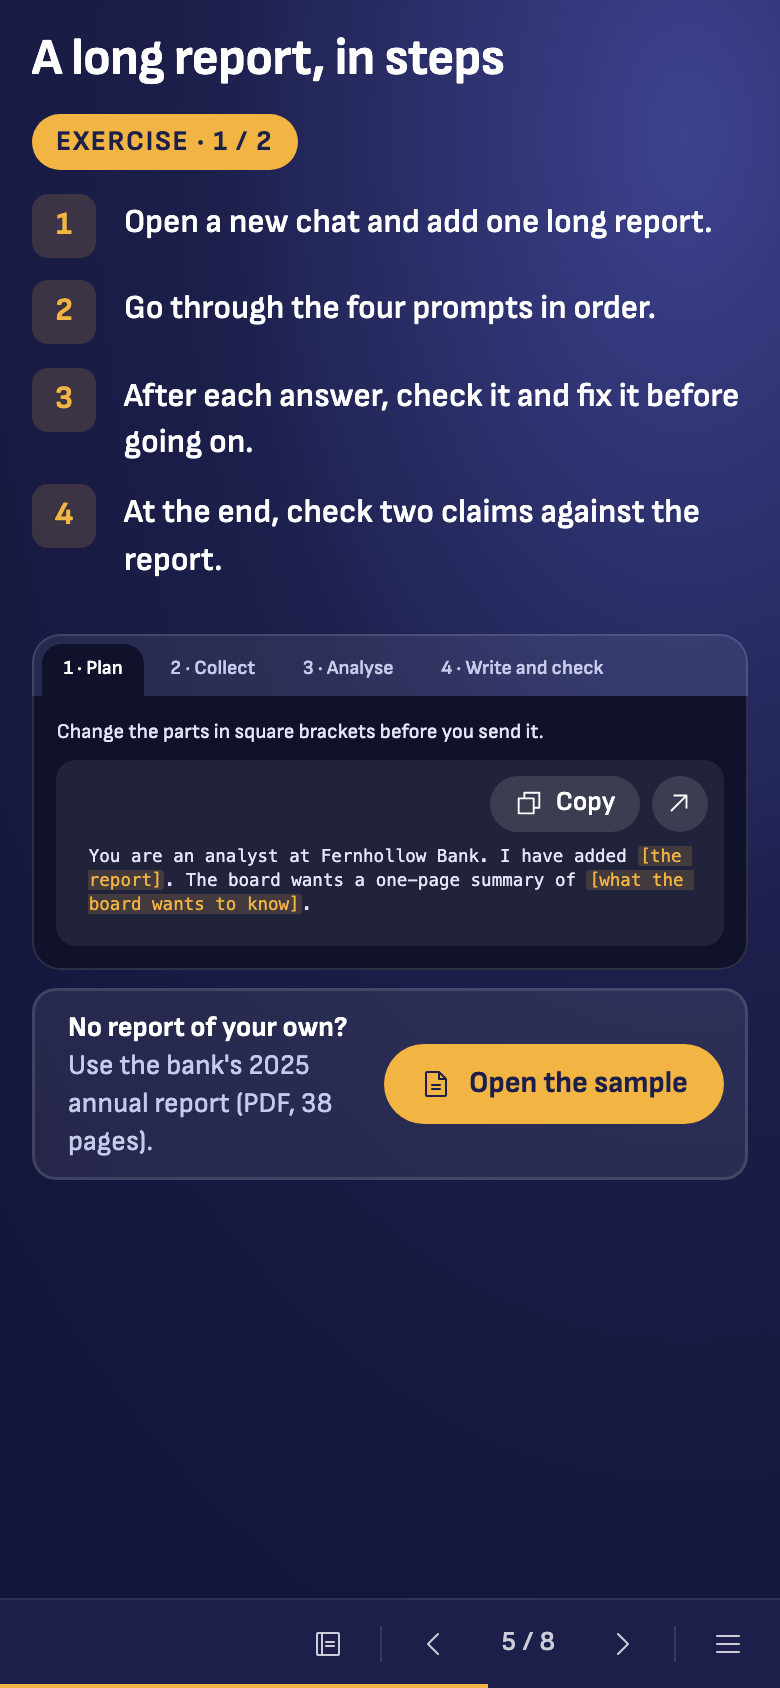
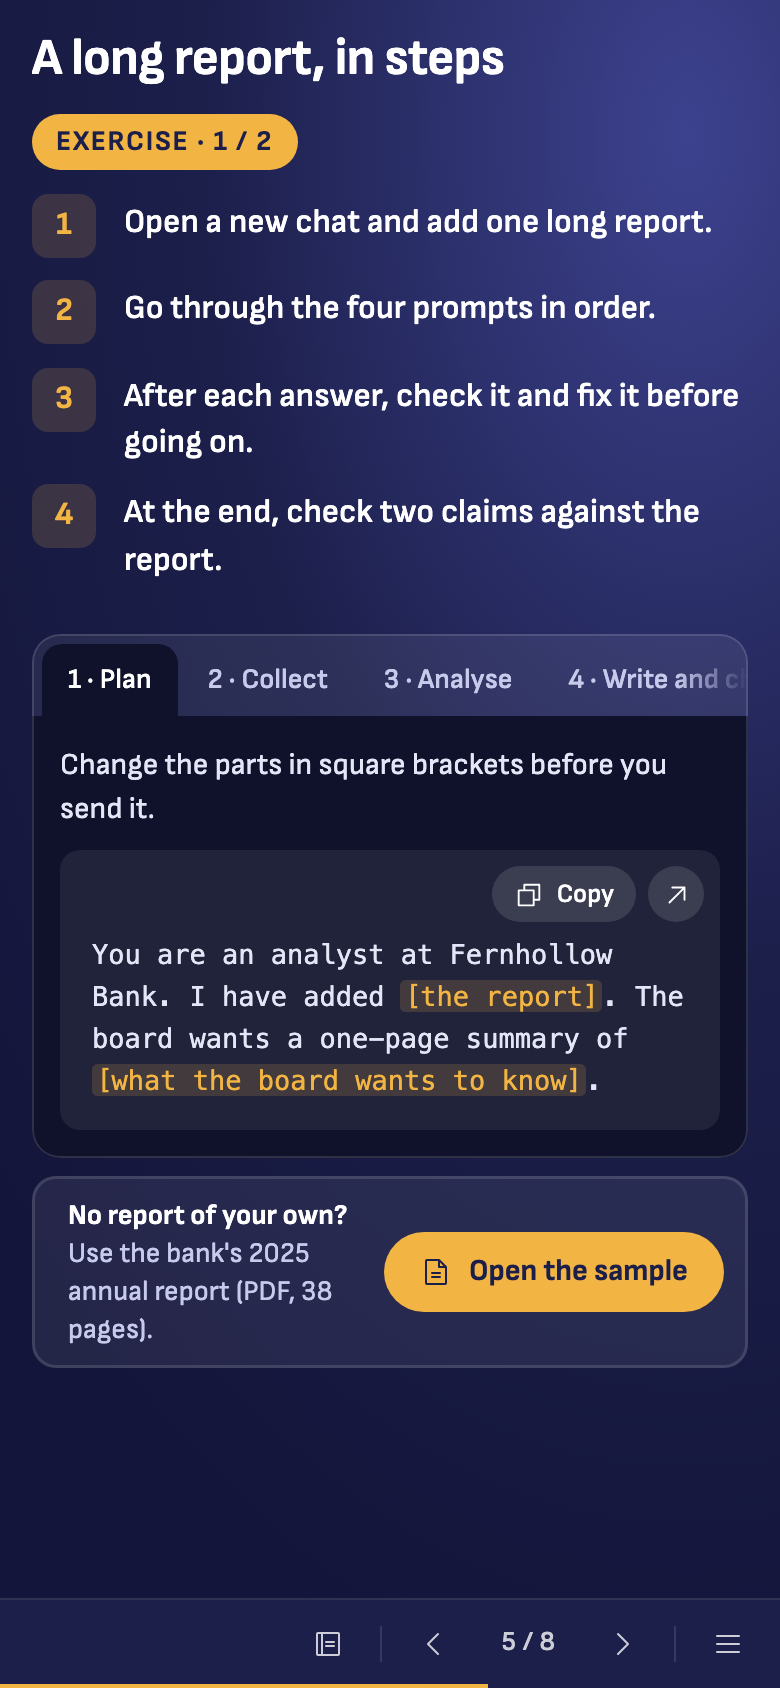
Decks page: one column at reading size, the Tabs block too (the Experience lead on #807)
Tab names 14 px on a 36 px tab, pane words 15 px at 1.5, code 13.5/21, Copy 28 px at 13 px, the arrow's circle 28 px;
the one-column ticks' rules no longer name a slide inside a slide. Shots 2 and 3 retaken.

Changed region(s): [[0.0308, 0.3697, 0.9846, 0.8009], [0.9538, 0.7085, 0.9846, 0.8009], [0.0308, 0.4005, 0.0615, 0.4313]]

diff --git a/extensions/ritemark/src/decks/page/pageHtml.ts b/extensions/ritemark/src/decks/page/pageHtml.ts
@@ -637,8 +637,17 @@ svg { flex: none; }
   .layer.flow .deck-sl.is-blocks table { display: block; overflow-x: auto; max-width: 100%; }
   .layer.flow .deck-sl.is-blocks .blk-pic { max-height: 60vh; }
   .layer.flow .deck-sl.is-blocks .blk-steps ol > li { padding-left: 46px; min-height: 32px; margin-bottom: .7em; }
-  .layer.flow .layer .deck-sl.is-blocks .blk-steps .tick { width: 32px; height: 32px; top: -3px; border-radius: 8px; font-size: 16px; }
-  .layer.flow .layer .deck-sl.is-blocks .blk-steps .tick svg { width: 17px; height: 17px; }
+  .layer.flow .deck-sl.is-blocks .blk-steps .tick { width: 32px; height: 32px; top: -3px; border-radius: 8px; font-size: 16px; }
+  .layer.flow .deck-sl.is-blocks .blk-steps .tick svg { width: 17px; height: 17px; }
+  /* Every block at reading size, the Tabs block too (the Experience lead on #807; workbook.html's one column): tab names
+     14 px on a 36 px tab with 13 px sides, pane words 15 px at 1.5, code 13.5 px on a 21 px line, Copy 28 px at 13 px, the
+     arrow's circle 28 px. The band scrolls sideways when the tabs don't fit, as on a slide. */
+  .layer.flow .deck-sl.is-blocks .blk-tabs > .blk-tabbar > .blk-tab { height: 36px !important; padding: 0 13px !important; font-size: 14px !important; line-height: 36px; }
+  .layer.flow .deck-sl.is-blocks .blk-tabpane { padding: 14px; font-size: 15px; line-height: 1.5; }
+  .layer.flow .deck-sl.is-blocks pre.cb { font-size: 13.5px; line-height: 21px; }
+  .layer.flow .deck-sl.is-blocks .cb-copy { height: 28px; padding: 0 11px; font-size: 13px; }
+  .layer.flow .deck-sl.is-blocks .cb-open { width: 28px; height: 28px; padding: 0; }
+  .layer.flow .deck-sl.is-blocks .cb-tools svg { width: 15px; height: 15px; }
   .side { position: relative; inset: auto; z-index: 1; width: auto; padding: 4px 16px calc(var(--line-h) + 16px); background: none; box-shadow: none; overflow: visible; }
   .side .sclose { display: none; }
   .line { background: var(--lbar); -webkit-backdrop-filter: blur(8px); backdrop-filter: blur(8px); box-shadow: 0 -1px 0 var(--lsep); padding-left: 16px; }
@@ -700,7 +709,7 @@ export const PRINT_CSS = `
   .layer .deck-sl.is-blocks.pic-right .photo { right: 0; width: 384px; }
   .layer .deck-sl.is-blocks.pic-behind .photo { left: 0; right: 0; }
   .layer .deck-sl.is-blocks.pic-behind .veil { inset: 0; }
-  .layer .layer .deck-sl.is-blocks .blk-steps .tick { box-shadow: none; }
+  .layer .deck-sl.is-blocks .blk-steps .tick { box-shadow: none; }
   .side > .part, .side > .pre { display: block; }
   .side > .part.only { display: none; }
   .part { padding: 0 0 7mm; margin: 0; border-top: 0; break-inside: avoid; page-break-inside: avoid; }

diff --git a/extensions/ritemark/src/decks/page/pageHtml.test.ts b/extensions/ritemark/src/decks/page/pageHtml.test.ts
@@ -81,6 +81,20 @@ assert.ok(PAGE_CSS.includes('.layer:not(.on):not(.leaving) { display: none; }'))
 }
 // Print draws each slide as the slide does: no print rule moves the words, so a side picture and a logo keep their room.
 assert.ok(!/@media print[\s\S]*\.blk-flow \{[^}]*left: 64px/.test(html));
+// The Experience lead on #807: in one column every block is at reading size, the Tabs block too (workbook.html's values),
+// and no rule of the page names a slide inside a slide (a doubled `.layer` matched nothing, so the narrow ticks were lost).
+{
+  const narrow = /@media screen and \(max-width: 860px\) \{([\s\S]*?)\n\}/.exec(PAGE_CSS)![1];
+  for (const rule of [
+    '.blk-tabs > .blk-tabbar > .blk-tab { height: 36px !important; padding: 0 13px !important; font-size: 14px !important;',
+    '.blk-tabpane { padding: 14px; font-size: 15px; line-height: 1.5; }',
+    'pre.cb { font-size: 13.5px; line-height: 21px; }',
+    '.cb-copy { height: 28px; padding: 0 11px; font-size: 13px; }',
+    '.cb-open { width: 28px; height: 28px; padding: 0; }',
+    '.blk-steps .tick { width: 32px; height: 32px;',
+  ]) assert.ok(narrow.includes(`.layer.flow .deck-sl.is-blocks ${rule}`), rule);
+  assert.ok(!/\.layer(?:\.flow)? \.layer\b/.test(PAGE_CSS), 'no slide inside a slide');
+}
 const parts = root.querySelectorAll('#side .part');
 assert.deepEqual(parts.map(part => part.getAttribute('id')), ['t1', 't2', 't3', 't4', 't5']);
 assert.deepEqual(parts.map(part => part.getAttribute('data-i')), ['0', '1', '2', '3', '4']);
